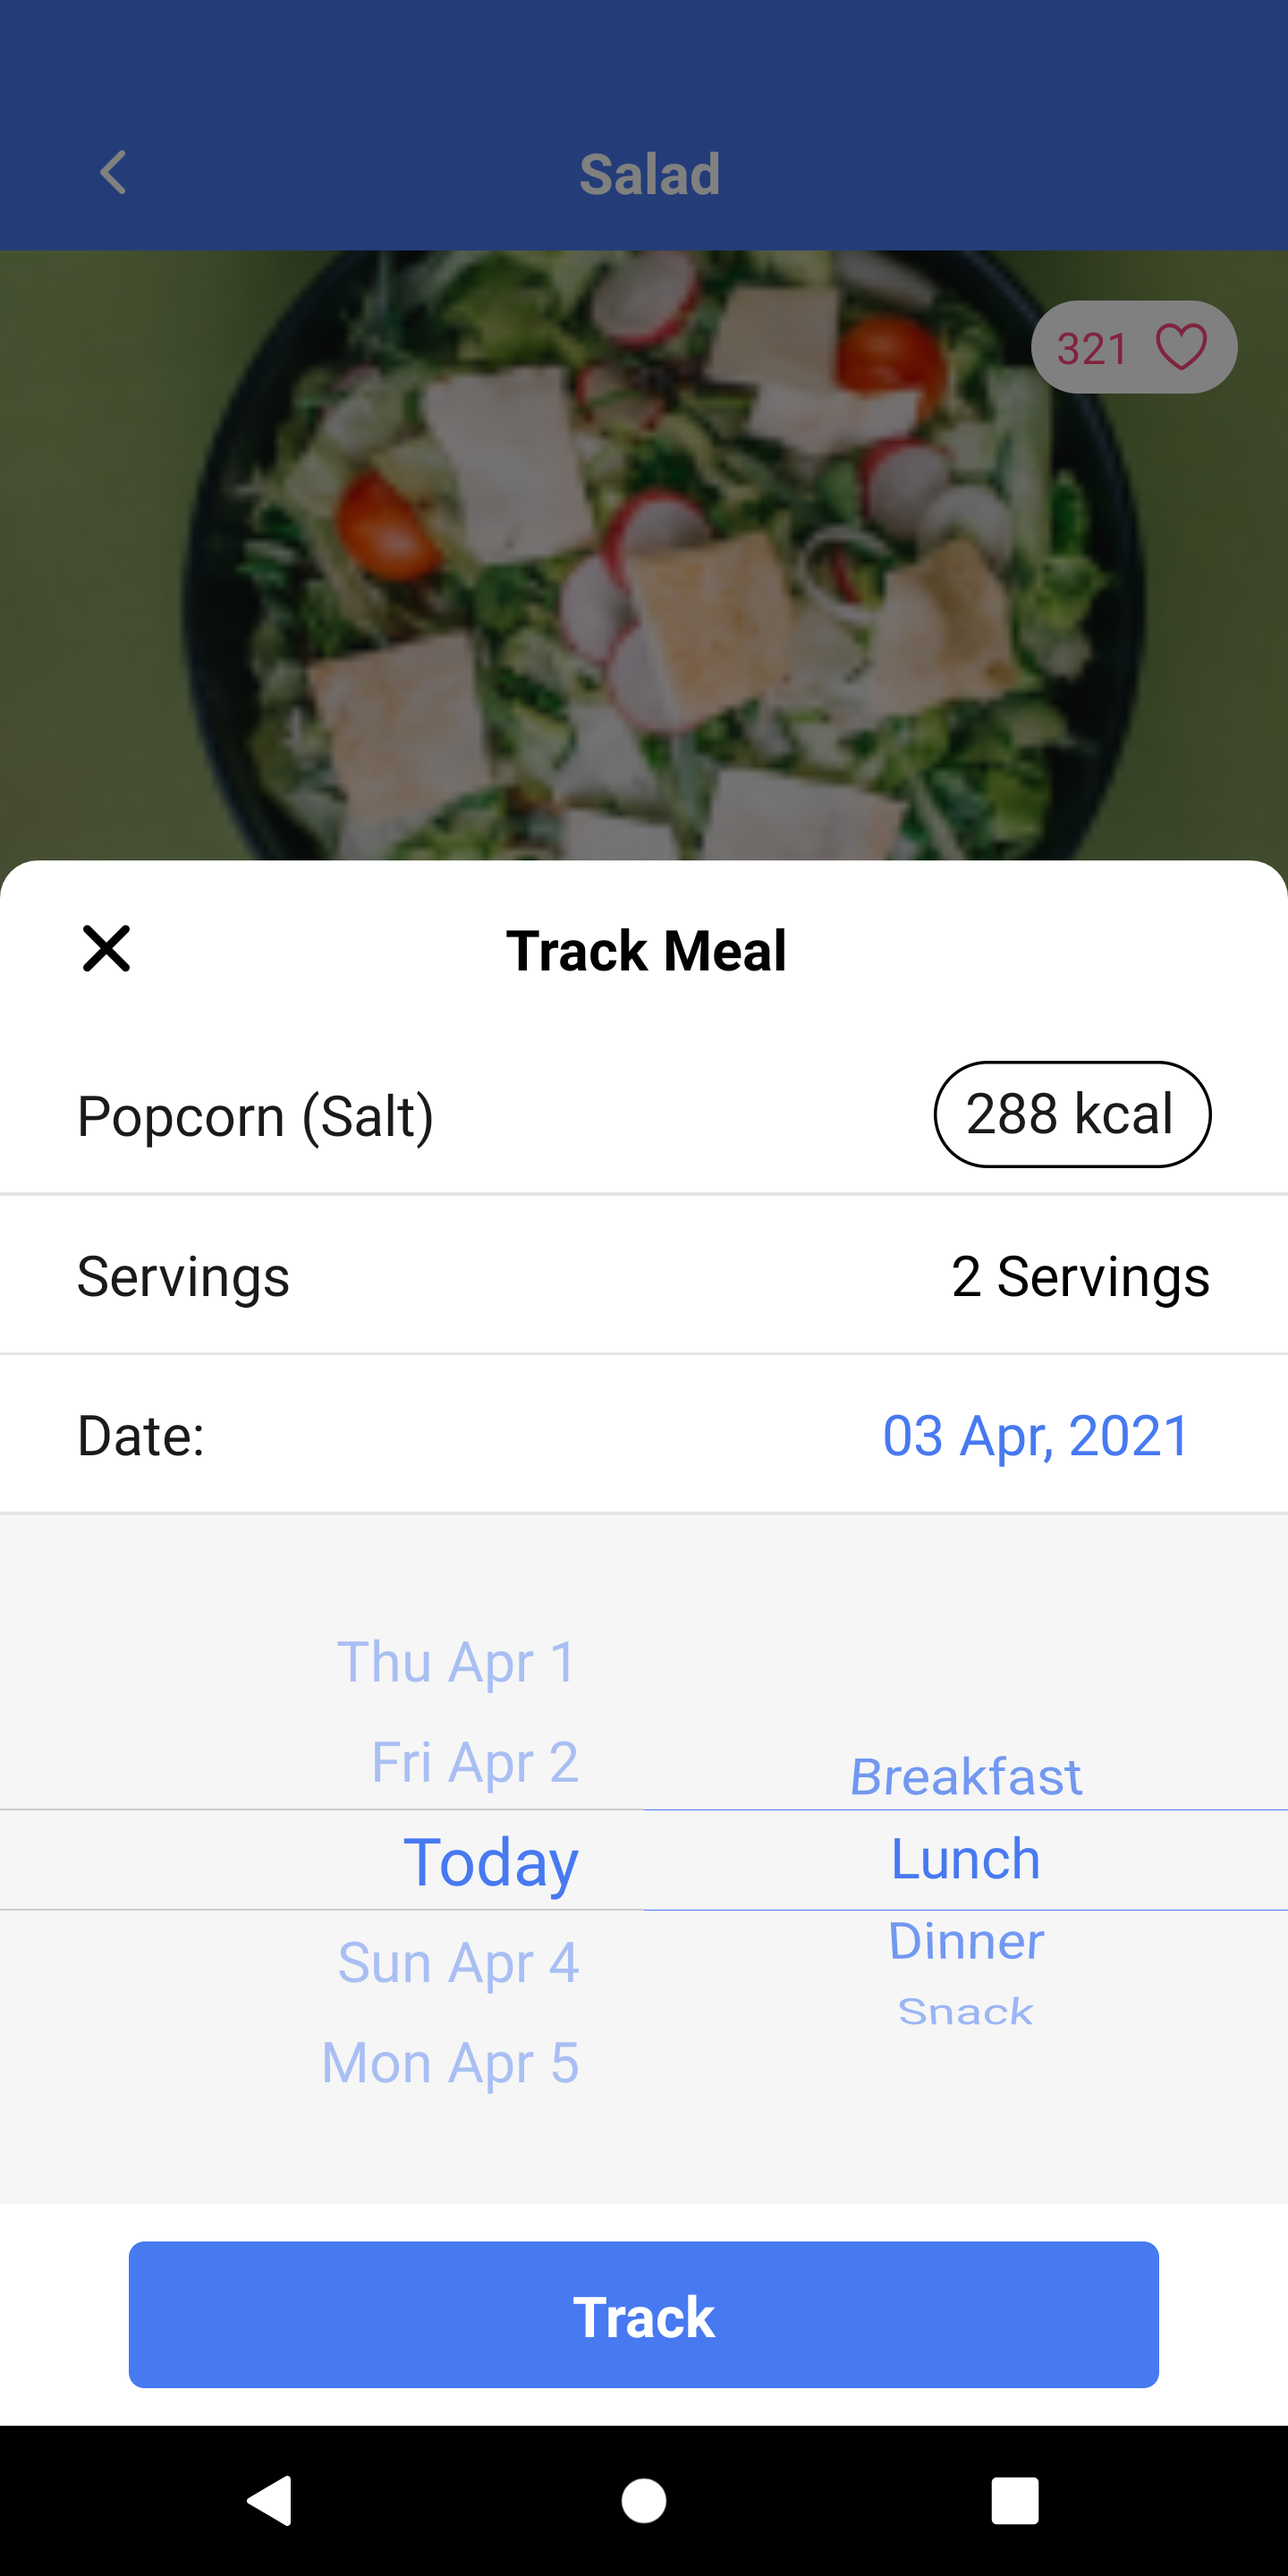
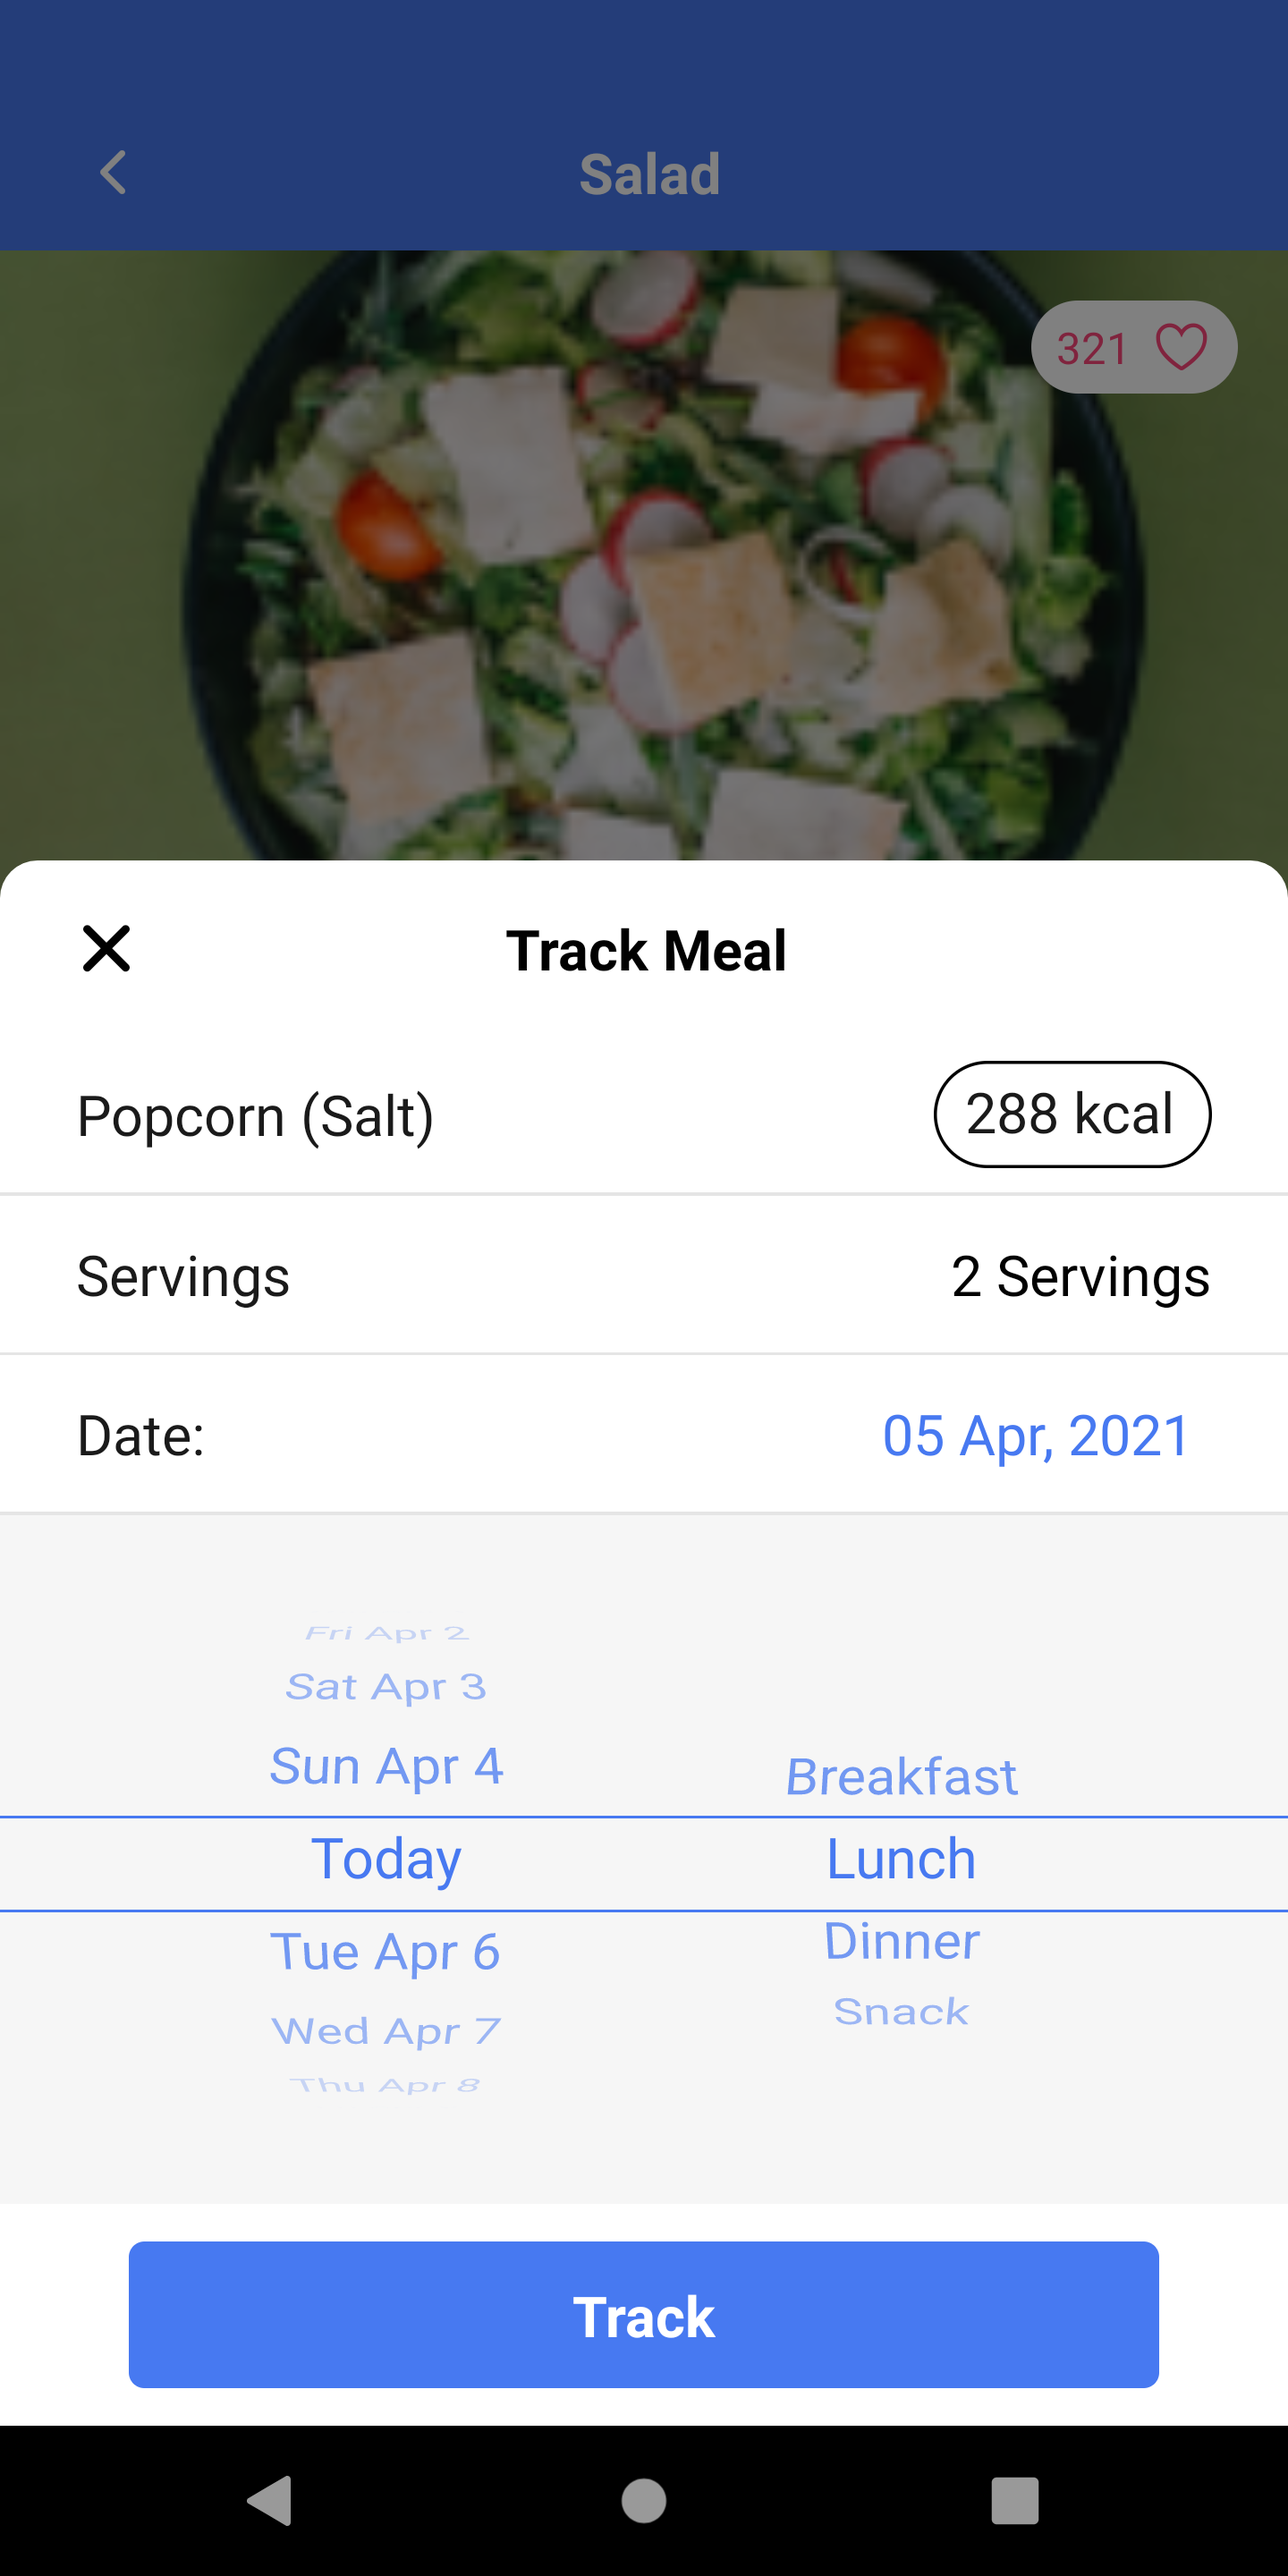
item 3.2.4 datepicker style changed

diff --git a/app_calorie_track_malay/src/views/Discover/vMealDetails.js b/app_calorie_track_malay/src/views/Discover/vMealDetails.js
@@ -69,13 +69,15 @@ export default class vMealDetails extends React.Component {
             activeTab: 0,
             isShowTrackModal: false,
             curSettingId: 1,
+            curTrackDateIndex : 180,
             curTrackDate: new Date(),
             curTrackTime: 1,
             curServingSize: 2,
             isShowEditModal: false,
             isEditMore: false,
-            direction : '',
-            directionInputHeight : 0,
+            direction: '',
+            directionInputHeight: 0,
+            datepicker_list: []
         }
     }
 
@@ -89,6 +91,13 @@ export default class vMealDetails extends React.Component {
     }
 
     componentDidMount = () => {
+        // prepare date list for date picker (1 year)
+        let tmpDates = []
+        for (var i = -180; i < 180; i++) {
+            tmpDates.push(moment(new Date()).add(i, 'days')) 
+        }
+        
+        this.setState({datepicker_list : tmpDates})
     }
 
     shoppingList = [{ name: 'Fish' }, { name: 'Chicken' }, { name: 'Potatoes' }, { name: 'Olives' }, { name: 'Bread' },]
@@ -118,6 +127,15 @@ export default class vMealDetails extends React.Component {
             label: '4             0.50',
         }
     ]
+
+    getDateString=(date_obj = new Date())=>{
+        let today_str = moment(new Date()).format("ddd MMM D")
+        let date_str = moment(date_obj).format("ddd MMM D")
+        if(today_str == date_str) {
+            return 'Today'
+        }
+        return date_str
+    }
 
     getMealTimeIcon = (time) => {
         if (time == 'Breakfast') { return <Svg_breakfast /> }
@@ -310,16 +328,27 @@ export default class vMealDetails extends React.Component {
                     {
                         this.state.curSettingId == 1 &&
                         <View style={[{ width: '100%', flex: 1, height: 160, backgroundColor: constant.C_BLACK_10 }, Gstyles.row_center]}>
-                            <DatePicker
+                            {/* <DatePicker
                                 fadeToColor={'none'}
                                 style={{ width: width(100), height: 160, backgroundColor: constant.C_BLACK_10, }}
                                 mode='datetime'
                                 textColor={constant.C_BLUE_50}
                                 date={this.state.curTrackDate}
                                 onDateChange={(value) => this.setState({ curTrackDate: value })}
-                            />
-                            <Picker style={{ position: 'absolute', left: '50%', top: 0, width: width(50), height: '100%', backgroundColor: constant.C_BLACK_10 }}
-                                lineColor={constant.C_BLUE_50} //to set top and bottom line color (Without gradients)
+                            /> */}
+                            
+                            <Picker style={{width : '40%', height: '100%', backgroundColor: constant.C_BLACK_10 }}
+                                lineColor={constant.C_BLACK_10} //to set top and bottom line color (Without gradients)
+                                selectedValue={this.state.curTrackDateIndex}
+                                itemStyle={{ color: constant.C_BLUE_50, fontSize: 18 }}
+                                itemSpace={18}
+                                onValueChange={(index) => this.setState({curTrackDateIndex : index, curTrackDate: this.state.datepicker_list[index]})}>
+                                {this.state.datepicker_list.map((value, i) =>
+                                    <PickerItem label={this.getDateString(value)} value={i} key={i} />
+                                )}
+                            </Picker>
+                            <Picker style={{width : '40%',height: '100%', backgroundColor: constant.C_BLACK_10 }}
+                                lineColor={constant.C_BLACK_10} //to set top and bottom line color (Without gradients)
                                 selectedValue={this.state.curTrackTime}
                                 itemStyle={{ color: constant.C_BLUE_50, fontSize: 18 }}
                                 itemSpace={18}
@@ -328,6 +357,8 @@ export default class vMealDetails extends React.Component {
                                     <PickerItem label={value} value={i} key={i} />
                                 )}
                             </Picker>
+                            <View style={{ width: '100%', height: 1, position: 'absolute', top: 96, backgroundColor: constant.C_BLUE_50 }}></View>
+                            <View style={{ width: '100%', height: 1, position: 'absolute', top: 126, backgroundColor: constant.C_BLUE_50 }}></View>
                         </View>
                     }
                     <View style={[{ width: '80%', },]}>
@@ -493,7 +524,7 @@ export default class vMealDetails extends React.Component {
                                         multiline={true}
                                         value={this.state.direction}
                                         onChangeText={(text) => {
-                                            this.setState({ direction : text })
+                                            this.setState({ direction: text })
                                         }}
                                         onContentSizeChange={(event) => {
                                             this.setState({ directionInputHeight: event.nativeEvent.contentSize.height })
@@ -656,7 +687,9 @@ const styles = StyleSheet.create({
     // edit modal
     nameinputview: { borderBottomColor: constant.C_BLACK_50, borderBottomWidth: 1, width: '100%', marginTop: 18, paddingBottom: 6 },
     mealItemsView: { paddingTop: 14, paddingBottom: 7 },
-    directionInput : {width: '100%', borderRadius: 12, borderWidth: 1, borderColor: constant.C_BLACK_30, marginTop: 12, 
-        textAlignVertical : 'top', padding : 16, fontSize: 14, fontWeight: '400'},
+    directionInput: {
+        width: '100%', borderRadius: 12, borderWidth: 1, borderColor: constant.C_BLACK_30, marginTop: 12,
+        textAlignVertical: 'top', padding: 16, fontSize: 14, fontWeight: '400'
+    },
 });
 

diff --git a/app_calorie_track_malay/App.js b/app_calorie_track_malay/App.js
@@ -6,7 +6,7 @@ import MemberRoute from './src/routes/Member';
 import GuestRoute from './src/routes/Guest';
 
 const App = (props) => {
-    const [isLogged, SetIsLogged] = useState(true)
+    const [isLogged, SetIsLogged] = useState(false)
 
     return (
       <Provider store={store}>
